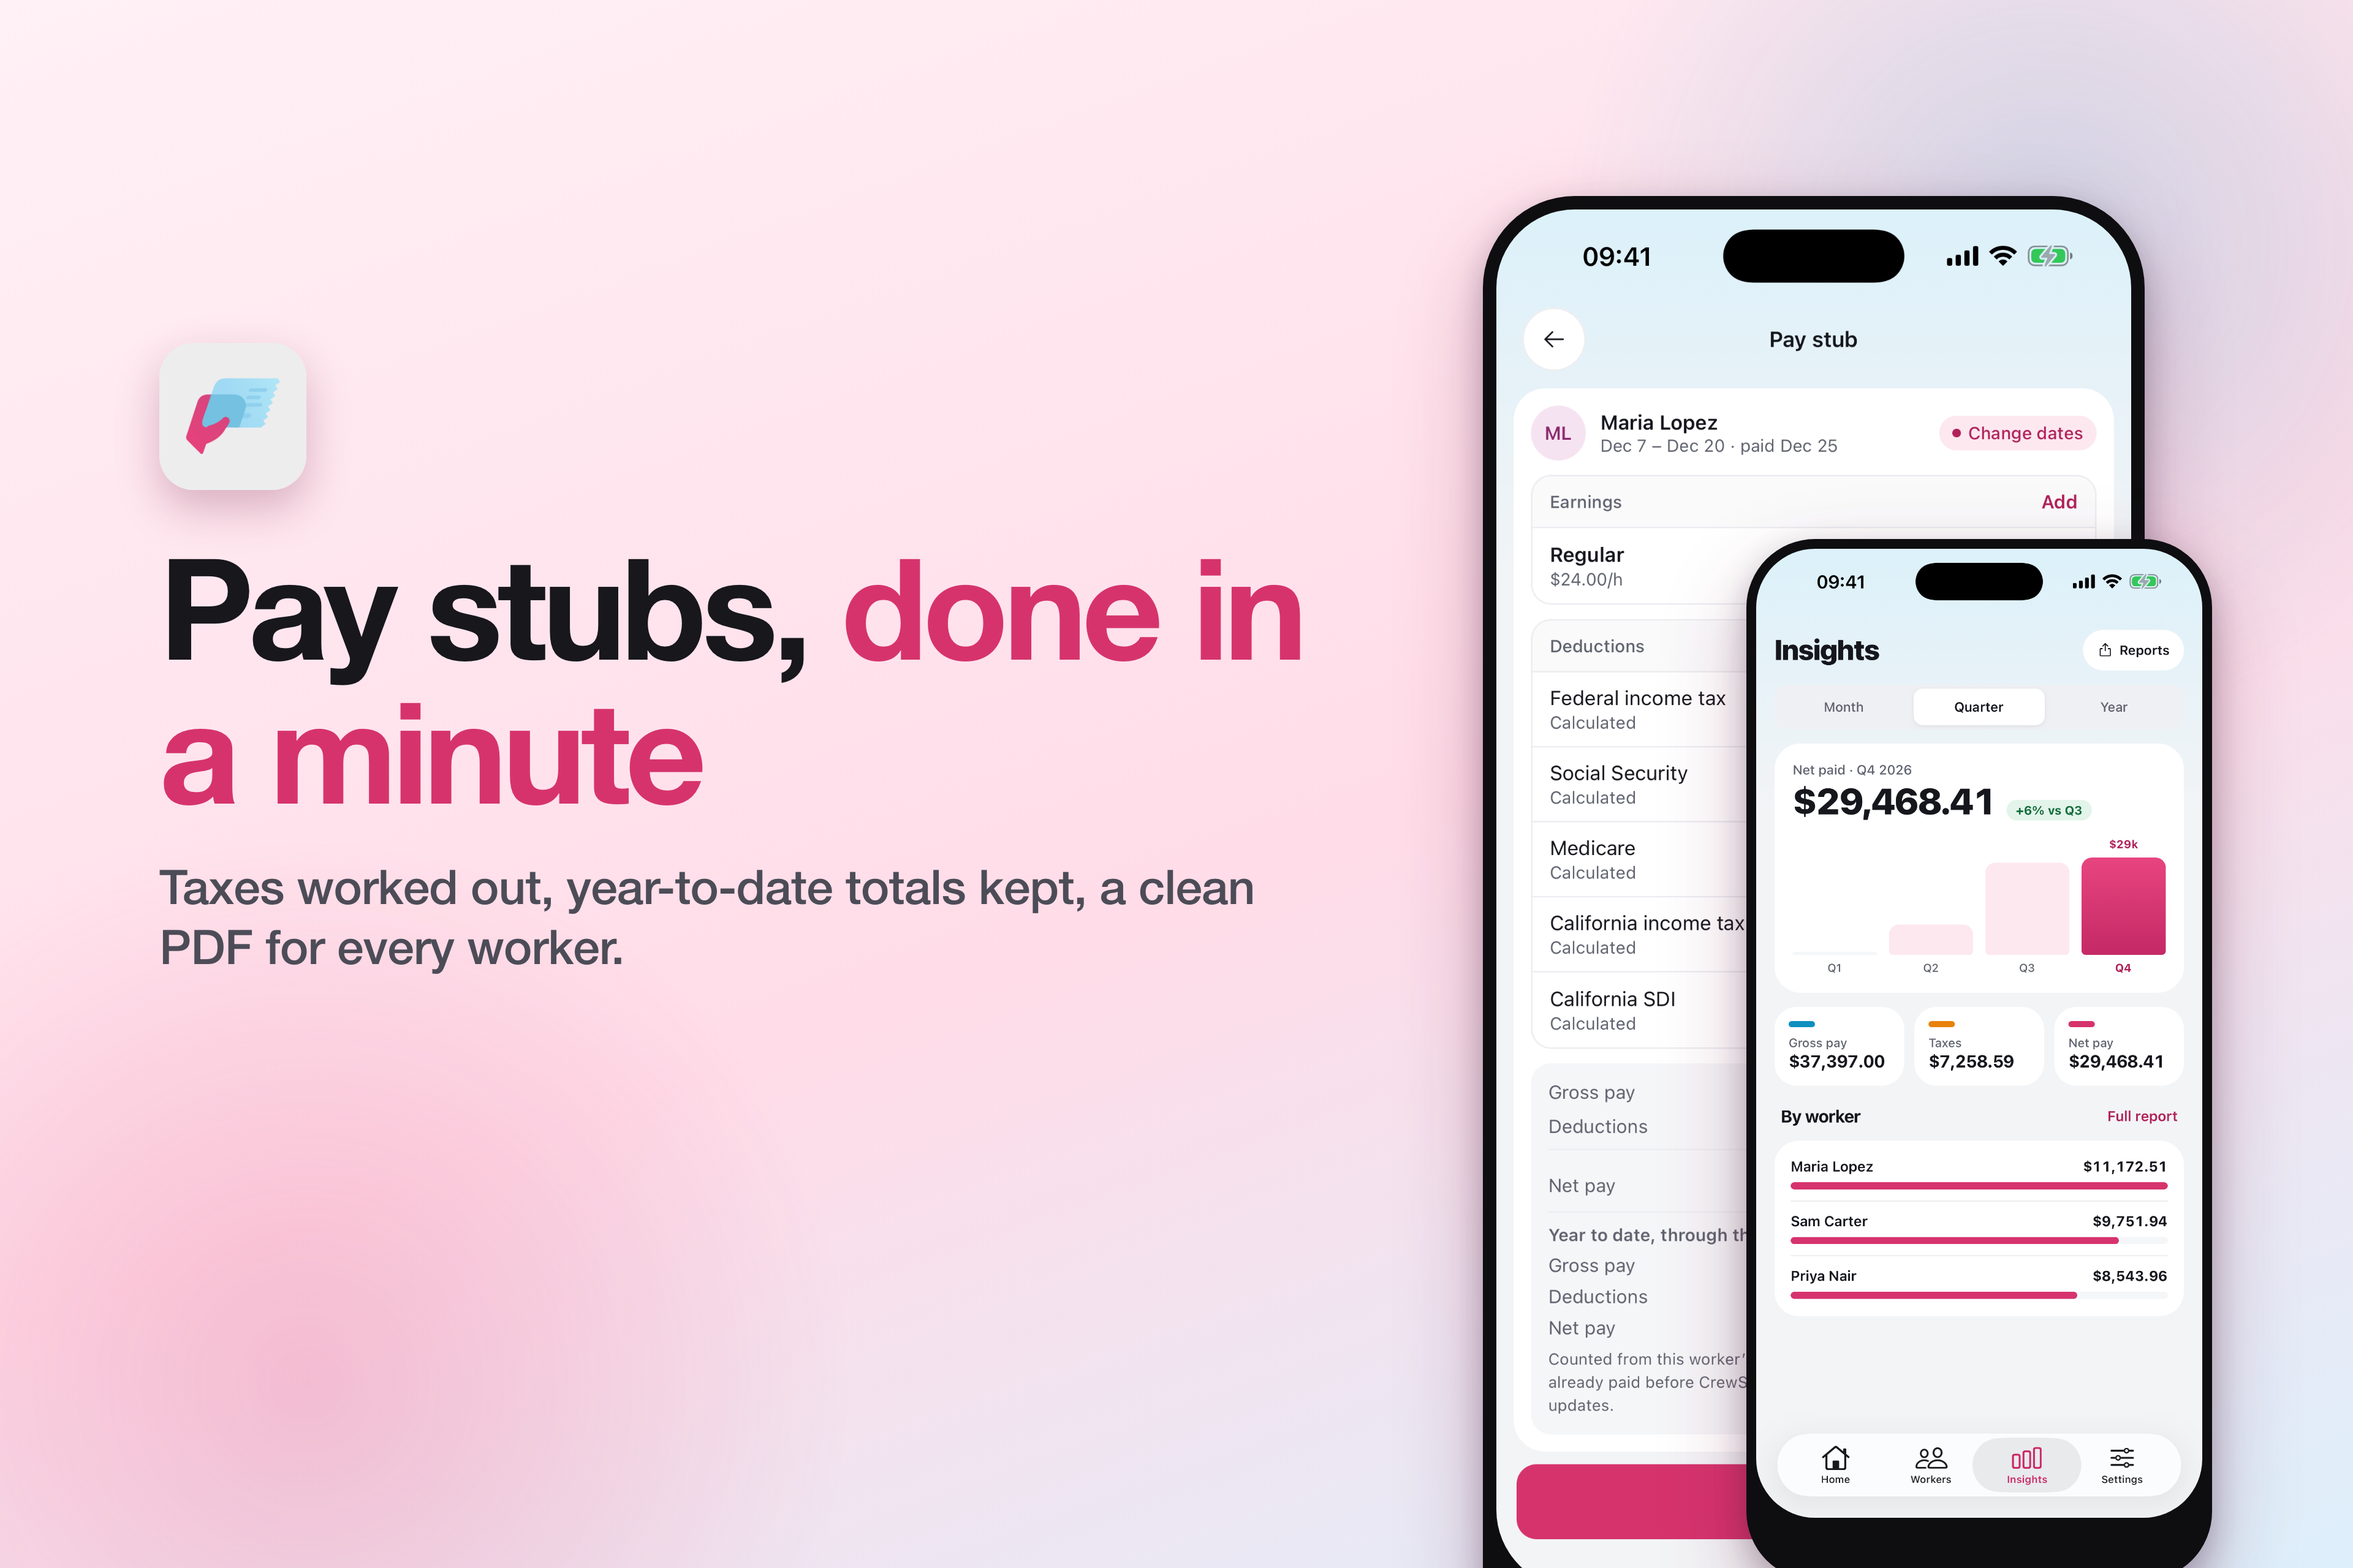
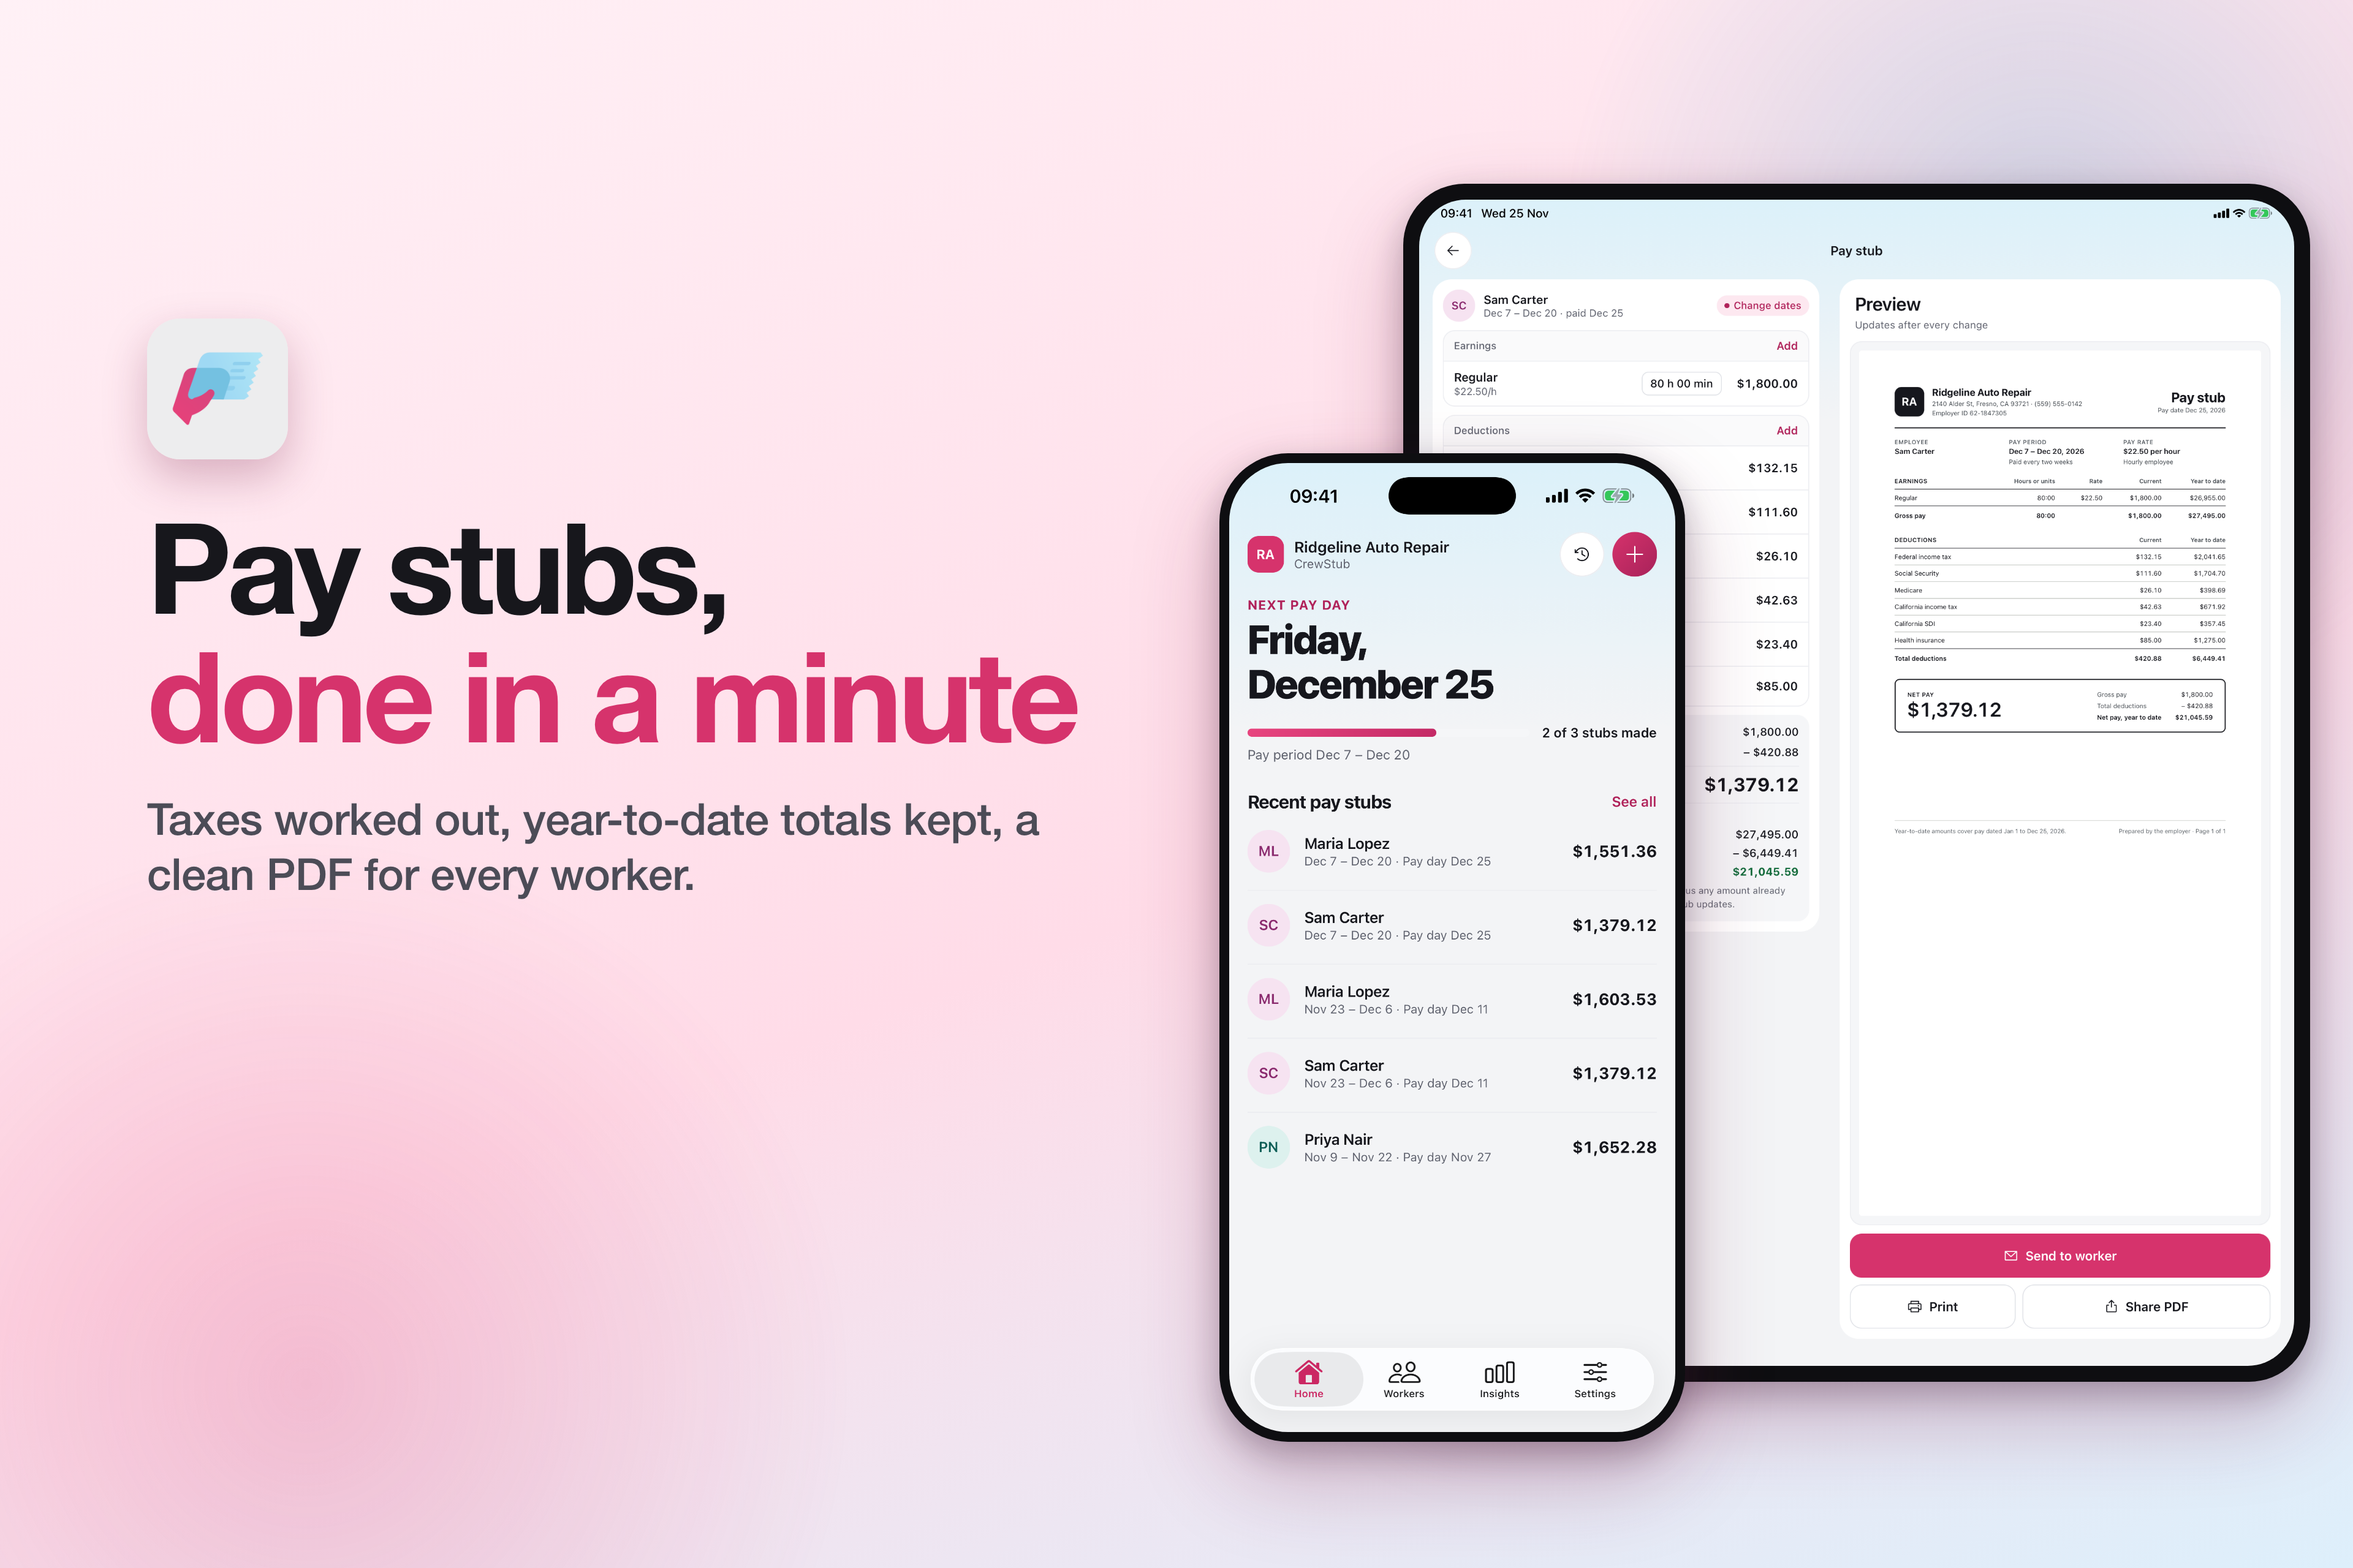
Show the iPad behind the iPhone in the search image

diff --git a/app-store-assets/make-store-images.py b/app-store-assets/make-store-images.py
@@ -81,16 +81,16 @@ def search(W=3840,H=2560):
     body=f'''
 <div class="blob" style="left:-400px;bottom:-600px;width:1800px;height:1800px;background:radial-gradient(circle,rgba(214,51,108,.20),transparent 70%)"></div>
 <div class="blob" style="right:-300px;top:-400px;width:1600px;height:1600px;background:radial-gradient(circle,rgba(15,143,191,.20),transparent 70%)"></div>
-<div style="position:absolute;left:260px;top:560px;width:1900px">
- <img src="{HERE}/icon.png" style="width:240px;height:240px;border-radius:56px;box-shadow:0 30px 70px rgba(120,30,70,.28)">
- <h1 style="font-size:230px;margin-top:70px">Pay stubs, <em>done in a minute</em></h1>
- <p class="sub" style="font-size:78px;margin-top:56px;line-height:1.25">Taxes worked out, year-to-date totals kept, a clean PDF for every worker.</p>
+<div style="position:absolute;left:240px;top:520px;width:1640px">
+ <img src="{HERE}/icon.png" style="width:230px;height:230px;border-radius:54px;box-shadow:0 30px 70px rgba(120,30,70,.28)">
+ <h1 style="font-size:206px;margin-top:66px">Pay stubs,<br><em>done in a minute</em></h1>
+ <p class="sub" style="font-size:72px;margin-top:52px;line-height:1.25">Taxes worked out, year-to-date totals kept, a clean PDF for every worker.</p>
 </div>
-<div class="dev" style="left:2420px;top:320px;width:1080px;height:2400px;border-radius:150px;padding:22px">
- <div style="border-radius:128px;overflow:hidden"><img src="{R}iphone-stub.png"></div>
+<div class="dev" style="left:2290px;top:300px;width:1480px;border-radius:100px;padding:26px">
+ <div style="border-radius:76px;overflow:hidden"><img src="{R}ipad-stub.png"></div>
 </div>
-<div class="dev" style="left:2850px;top:880px;width:760px;height:1700px;border-radius:112px;padding:16px;opacity:1">
- <div style="border-radius:96px;overflow:hidden"><img src="{R}iphone-insights.png"></div>
+<div class="dev" style="left:1990px;top:740px;width:760px;border-radius:112px;padding:16px">
+ <div style="border-radius:96px;overflow:hidden"><img src="{R}iphone-home.png"></div>
 </div>'''
     return page('search-3840x2560',W,H,'blush',body)
 
